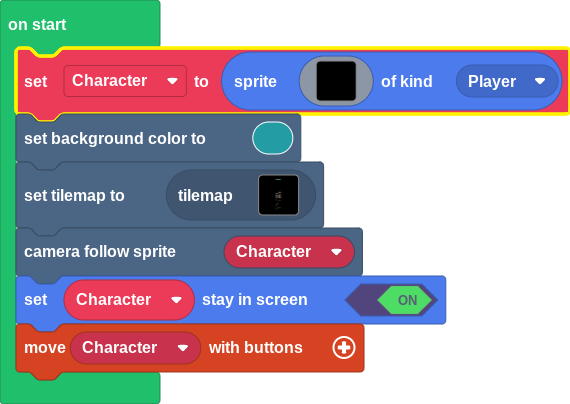
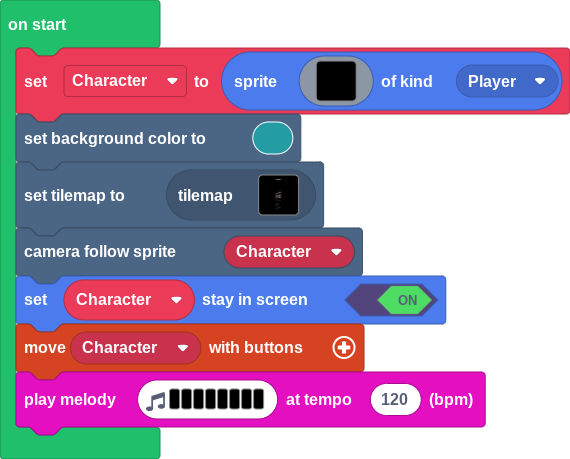
Update main.blocks, main.ts

diff --git a/main.ts b/main.ts
@@ -45,3 +45,4 @@ tiles.setCurrentTilemap(tilemap`level1`)
 scene.cameraFollowSprite(Character)
 Character.setStayInScreen(true)
 controller.moveSprite(Character)
+music.playMelody("D G D B C E F D ", 120)
